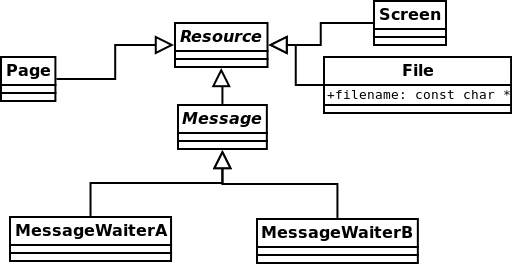
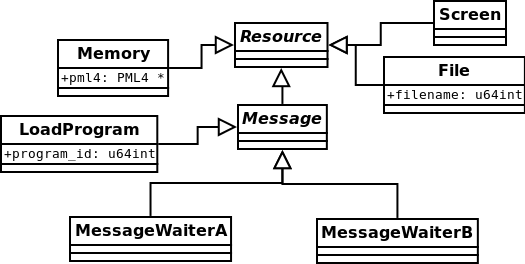
Pridėtas fizinės atminties planas.

diff --git a/doc/Real/source/projektas.rst b/doc/Real/source/projektas.rst
@@ -84,3 +84,154 @@ Operacinė sistemos kodas yra vykdomas proceso ``init`` aplinkoje.
   :alt: OS branduolio diagrama.
 
   OS branduolio diagrama.
+
+Operacinės sistemos sąsaja
+==========================
+
+Naudotojo programa
+------------------
+
+Naudotojo programa OS funkcijas gali pasiekti per 0x80 pertraukimą. Kokią
+funkciją reikia iškviesti nurodo registro ``rax`` reikšmė:
+
++   ``0`` – naudotojo programa baigė darbą;
++   ``1`` – atidaryti failą, kurio pavadinimas yra ``rbx`` reikšmė, 
+    skaitymui (atidaryto failo id būna registre ``rax``);
++   ``2`` – atidaryti failą, kurio pavadinimas yra ``rbx`` reikšmė,
+    rašymui (atidaryto failo id būna registre ``rbx``);
++   ``3`` – uždaryti failą, kurio id yra nurodytas registre ``rbx``;
++   ``4`` – ištrinti failą, kurio pavadinimas yra registro ``rbx`` reikšmė;
++   ``5`` – nuskaityti žodį (8 baitus) į ``rax`` iš atidaryto failo, kurio 
+    id yra nurodytas registre ``rbx``;
++   ``6`` – įrašyti žodį (8 baitus) iš ``rdi`` į failą, kurio id yra 
+    nurodytas registre ``rbx``;
+
+Iškvietus OS funkciją su neteisingais parametrais arba sukėlus bet kurį kitą
+pertraukimą, naudotojo programa turėtų būti nužudyta.
+
+Servisas ``loader``
+-------------------
+
+Servisas ``loader`` be naudotojo programai pasiekiamų OS funkcijų dar gali 
+prieiti prie tokių:
+
++   ``10`` – prašyti resurso ``LoadProgram`` (programos identifikatorius
+    perduodamas, kaip registro ``rax`` reikšmė, resursas iš resursų sąrašo
+    ištrinamas);
++   ``11`` – prašyti resurso ``Memory`` (resurso id perduodamas, kaip
+    ``rbx`` reikšmė, o pml4 adresas perduodamas, kaip registro ``rdi``
+    reikšmė);
++   ``12`` – prašyti resurso ``Screen`` (resurso id perduodamas, kaip
+    ``rbx`` reikšmė);
++   ``13`` – sukurti naują procesą (``Memory`` resurso id perduodamas
+    kaip ``rbx`` reikšmė, ``Screen`` resurso id perduodamas, kaip ``rdi``
+    reikšmė, virtualus adresas į kurį reikia „šokti“ yra perduodamas
+    registru ``rsi``, dėklo viršūnės virtualus adresas perduodamas 
+    registru ``rdx``).
+
+
+Servisai ``waitera`` ir ``waiterb``
+-----------------------------------
+
+Gal juos pakeisti vienu procesu ``waiter``, kuris su resursais nedirba? 
+Bus lengviau realizuoti.
+
+Išdėstymo atmintyje planas
+==========================
+
+Reali atmintis
+--------------
+
+Sistemos vaizdas realioje atmintyje.
+
++--------------------+-------+------------------------------------------+
+| Adresas            | Dydis | Prasmė                                   |
++====================+=======+==========================================+
+| 0x00000000001fa000 | 14 MB | Čia guli branduolio vykdomasis           |
++--------------------+       | kodas.                                   |
+| 0x0000000000ff9fff |       |                                          |
+|                    |       |                                          |
++--------------------+-------+------------------------------------------+
+| 0x0000000000ffa000 |  2 MB | Branduolio dėklas. Pradinis              |
++--------------------+       | ``rsp =  0x10fa000``.                    |
+| 0x00000000011f9fff |       |                                          |
+|                    |       |                                          |
++--------------------+-------+------------------------------------------+
+| 0x00000000011fa000 |  1 MB | Branduolio puslapiavimo lentelė.         |
++--------------------+       |                                          |
+| 0x00000000012f9fff |       |                                          |
+|                    |       |                                          |
++--------------------+-------+------------------------------------------+
+| 0x00000000012fa000 |  1 MB | Serviso ``loader`` puslapiavimo          |
++--------------------+       | lentelė.                                 |
+| 0x00000000013f9fff |       |                                          |
+|                    |       |                                          |
++--------------------+-------+------------------------------------------+
+| 0x00000000013fa000 |  1 MB | Serviso ``waitera`` (arba ``waiter``)    |
++--------------------+       | puslapiavimo lentelė.                    |
+| 0x00000000014f9fff |       |                                          |
+|                    |       |                                          |
++--------------------+-------+------------------------------------------+
+| 0x00000000014fa000 |  1 MB | Serviso ``waiterb``                      |
++--------------------+       | puslapiavimo lentelė.                    |
+| 0x00000000015f9fff |       |                                          |
+|                    |       |                                          |
++--------------------+-------+------------------------------------------+
+| 0x00000000015fa000 |  1 MB | 1 Naudotojo programos                    |
++--------------------+       | puslapiavimo lentelė.                    |
+| 0x00000000016f9fff |       |                                          |
+|                    |       |                                          |
++--------------------+-------+------------------------------------------+
+| 0x00000000016fa000 |  1 MB | 2 Naudotojo programos                    |
++--------------------+       | puslapiavimo lentelė.                    |
+| 0x00000000017f9fff |       |                                          |
+|                    |       |                                          |
++--------------------+-------+------------------------------------------+
+| 0x00000000017fa000 |  1 MB | 3 Naudotojo programos                    |
++--------------------+       | puslapiavimo lentelė.                    |
+| 0x00000000018f9fff |       |                                          |
+|                    |       |                                          |
++--------------------+-------+------------------------------------------+
+| 0x00000000018fa000 |  1 MB | 4 Naudotojo programos                    |
++--------------------+       | puslapiavimo lentelė.                    |
+| 0x00000000019f9fff |       |                                          |
+|                    |       |                                          |
++--------------------+-------+------------------------------------------+
+| 0x00000000019fa000 | 16 MB | 1 naudotojo programos atmintis.          |
++--------------------+       |                                          |
+| 0x0000000001ff9fff |       |                                          |
+|                    |       |                                          |
++--------------------+-------+------------------------------------------+
+| 0x0000000001ffa000 | 16 MB | 2 naudotojo programos atmintis.          |
++--------------------+       |                                          |
+| 0x0000000002ff9fff |       |                                          |
+|                    |       |                                          |
++--------------------+-------+------------------------------------------+
+| 0x0000000002ffa000 | 16 MB | 3 naudotojo programos atmintis.          |
++--------------------+       |                                          |
+| 0x0000000003ff9fff |       |                                          |
+|                    |       |                                          |
++--------------------+-------+------------------------------------------+
+| 0x0000000003ffa000 | 16 MB | 4 naudotojo programos atmintis.          |
++--------------------+       |                                          |
+| 0x0000000004ff9fff |       |                                          |
+|                    |       |                                          |
++--------------------+-------+------------------------------------------+
+
+Branduolio virtuali atmintis
+----------------------------
+
+TODO
+
+Serviso ``loader`` virtuali atmintis
+------------------------------------
+
+Lygiai tokia pat, kaip ir branduolio.
+
+Serviso ``waiter`` virtuali atmintis
+------------------------------------
+
+Lygiai tokia pat, kaip ir branduolio.
+
+Naudotojo programos virtuali atmintis
+-------------------------------------

diff --git a/doc/Real/source/pastabos.rst b/doc/Real/source/pastabos.rst
@@ -96,6 +96,23 @@ Pastabos
 + 125 puslapyje duota lentelė, kurioje nurodyta į kokią struktūrą kada yra
   kreipiamasi konvertuojant virtualų adresą į realų.
 
+Multiprogramiškumas
+===================
+
+Ką reikia padaryti:
+
+1.  išsikelti dėklą į kokią nors žinomą vietą prieš pereinant į C++ 
+    kodą (tam, kad būtų žinoma tiksli jo vieta);
+2.  ``cr3`` rodo į PML4, norint pakeisti puslapiavimo lentelę pakanka
+    jį perrašyti?
+3.  sukurti ``TSS`` (aprašymas 319 psl.)
+
+
+Pastabos:
+
++   prieš persijungiant į kitą užduotį turi būti ``CR0.TS = 1`` 
+    (aprašymas 77 psl., pavyzdys ``arcticos/Modules/Task/round_robin.c`` 
+    170 eil.);
 
 TODO
 ====
@@ -122,7 +139,7 @@ C funkcijų kvietimas
 Pirmieji šeši skaitiniai argumentai (nepriklausomai nuo tipo, gali būti
 tiek ``char``, tiek ``long``) perduodami pradedant kairiausiu tokia
 tvarka: ``RDI``, ``RSI``, ``RDX``, ``RCX``, ``R8`` ir ``R9``. Kiti 
-argumentai yra perduodami per steką.
+argumentai yra perduodami per dėklą.
 
 Šie registrai, taip pat ir ``RAX``, ``R10`` ir ``R11`` yra pakeičiami
 kviečiant funkciją.
